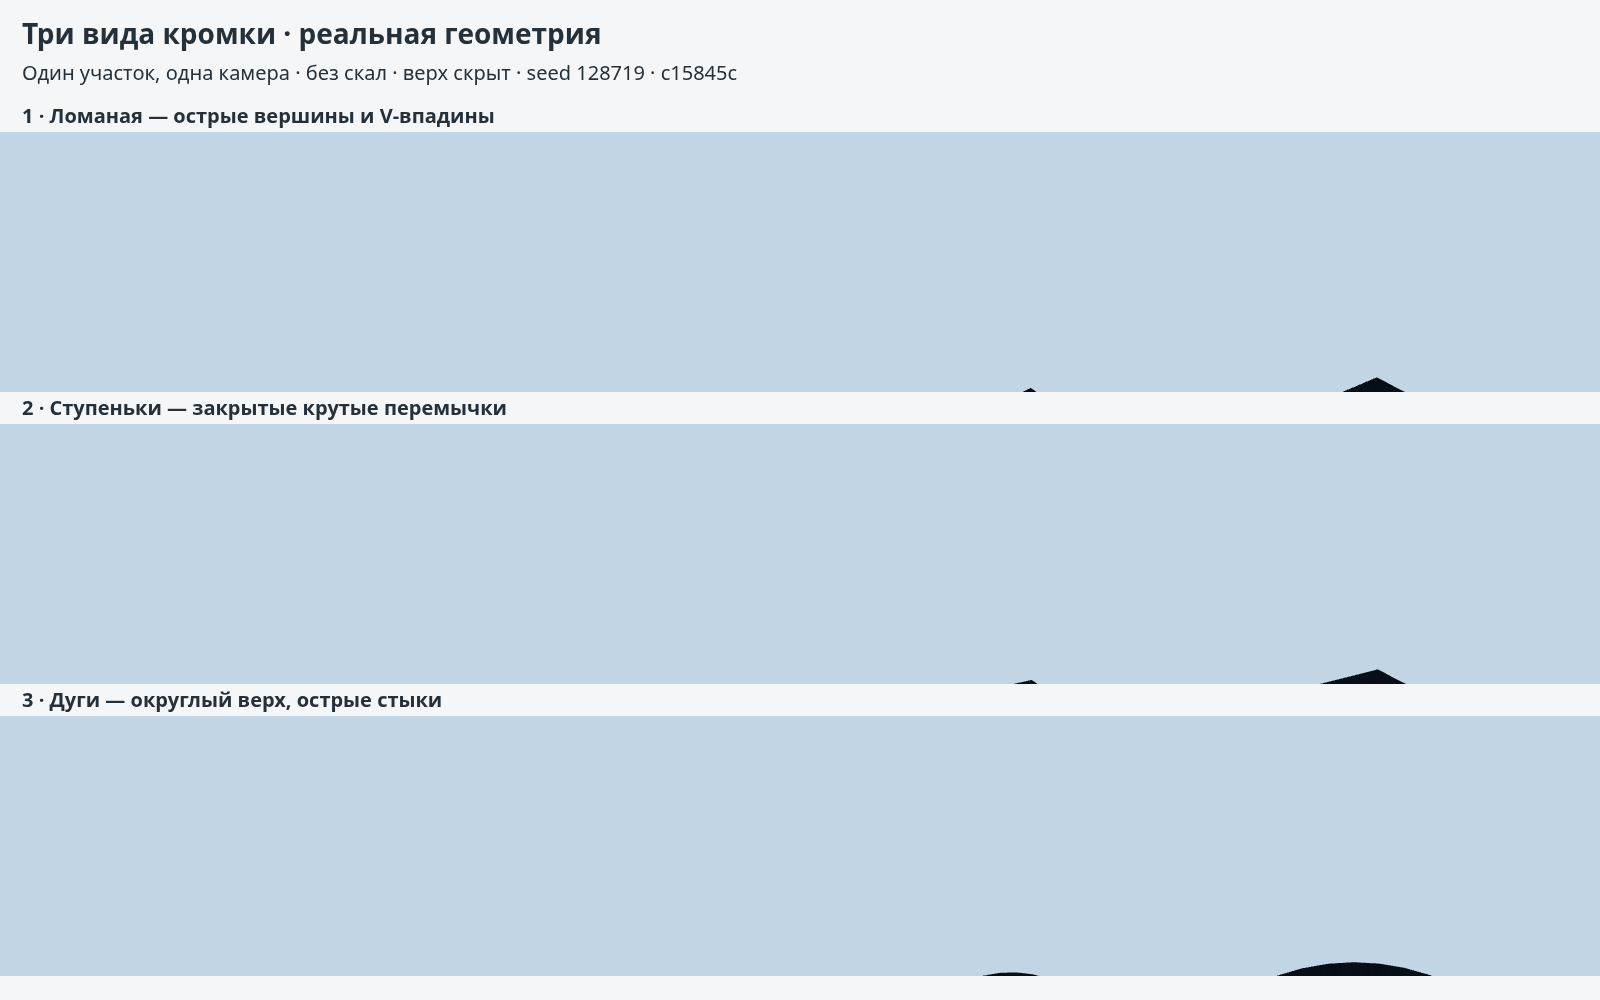
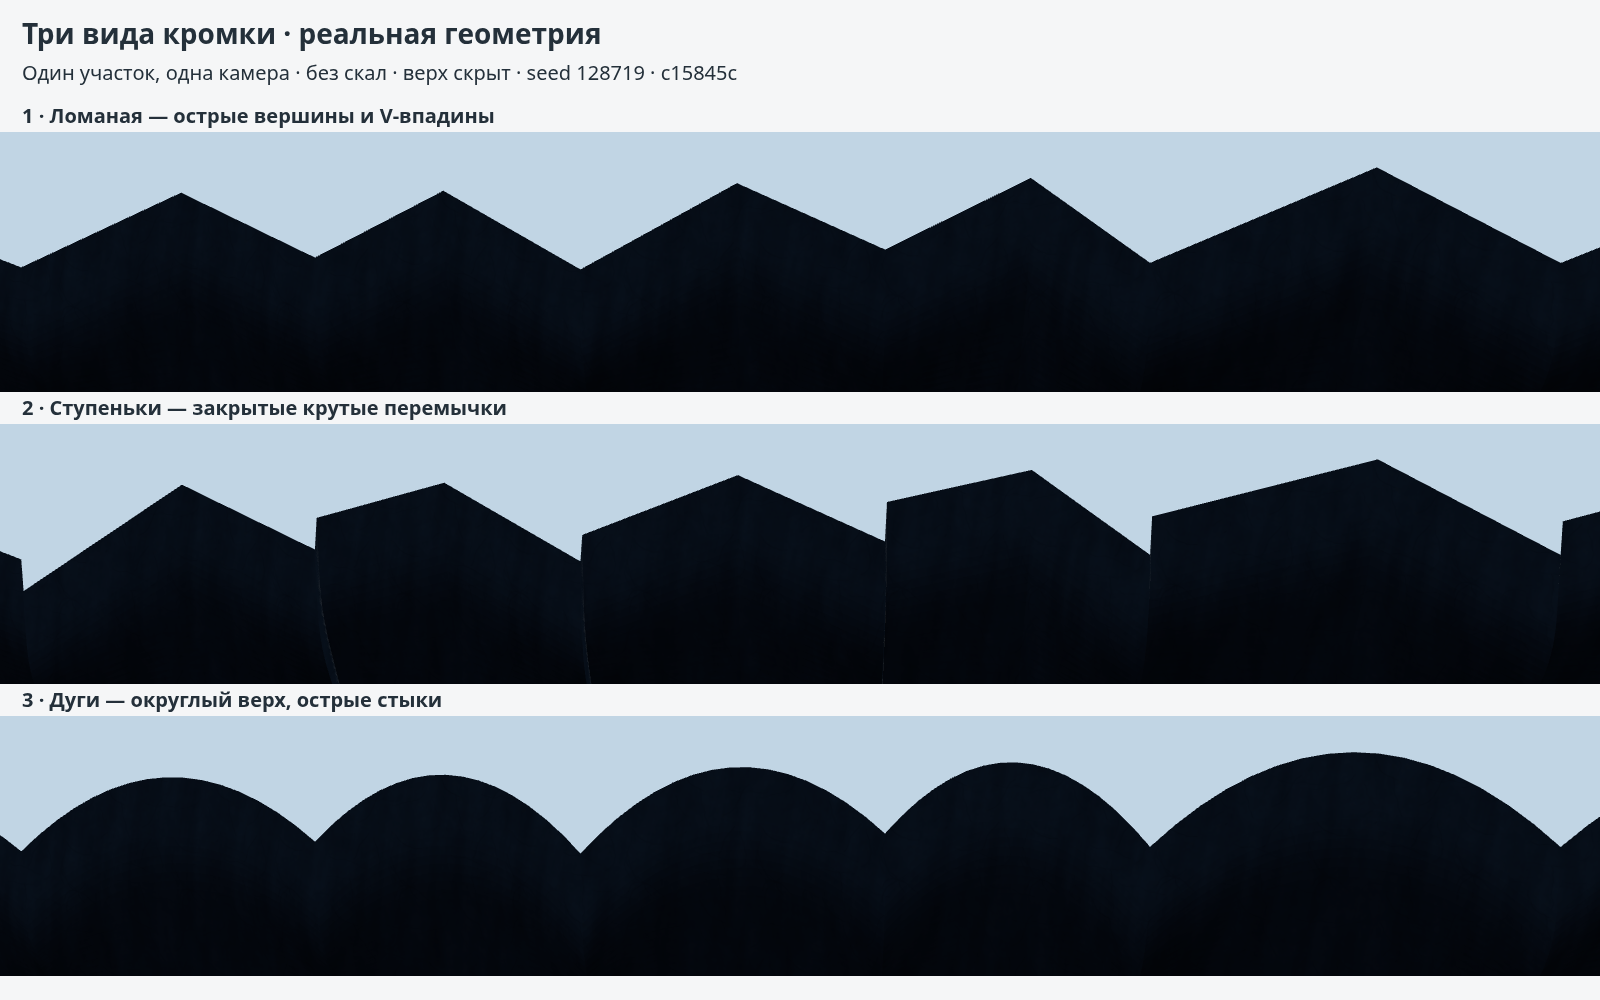
Frame the rim details clearly in the comparison

diff --git a/docs/qa/PLATEAU-001/c15845c798e53279004f753e7fca2b865208defc/comparison.html b/docs/qa/PLATEAU-001/c15845c798e53279004f753e7fca2b865208defc/comparison.html
@@ -1,1 +1,1 @@
-<!doctype html><meta charset="utf-8"><style>*{box-sizing:border-box}body{margin:0;background:#f5f6f7;color:#24303a;font:20px system-ui}header{height:100px;padding:14px 22px}h1{font-size:28px;margin:0 0 7px}section{height:292px}h2{height:32px;font-size:20px;margin:0;padding:2px 22px}.image{height:260px;overflow:hidden}img{display:block;width:1600px;height:1000px}</style><header><h1>Три вида кромки · реальная геометрия</h1>Один участок, одна камера · без скал · верх скрыт · seed 128719 · c15845c</header><section><h2>1 · Ломаная — острые вершины и V-впадины</h2><div class="image"><img src="angular-front.png"></div></section><section><h2>2 · Ступеньки — закрытые крутые перемычки</h2><div class="image"><img src="stepped-front.png"></div></section><section><h2>3 · Дуги — округлый верх, острые стыки</h2><div class="image"><img src="arcs-front.png"></div></section>
+<!doctype html><meta charset="utf-8"><style>*{box-sizing:border-box}body{margin:0;background:#f5f6f7;color:#24303a;font:20px system-ui}header{height:100px;padding:14px 22px}h1{font-size:28px;margin:0 0 7px}section{height:292px}h2{height:32px;font-size:20px;margin:0;padding:2px 22px}.image{height:260px;overflow:hidden}img{display:block;width:1600px;height:1000px;transform:translateY(-210px)}</style><header><h1>Три вида кромки · реальная геометрия</h1>Один участок, одна камера · без скал · верх скрыт · seed 128719 · c15845c</header><section><h2>1 · Ломаная — острые вершины и V-впадины</h2><div class="image"><img src="angular-front.png"></div></section><section><h2>2 · Ступеньки — закрытые крутые перемычки</h2><div class="image"><img src="stepped-front.png"></div></section><section><h2>3 · Дуги — округлый верх, острые стыки</h2><div class="image"><img src="arcs-front.png"></div></section>
